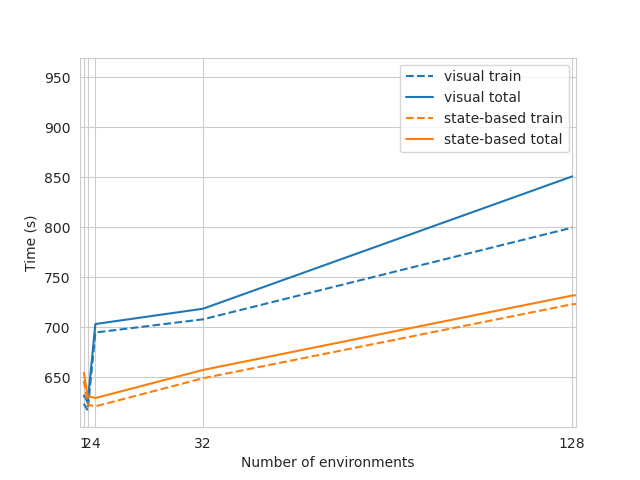
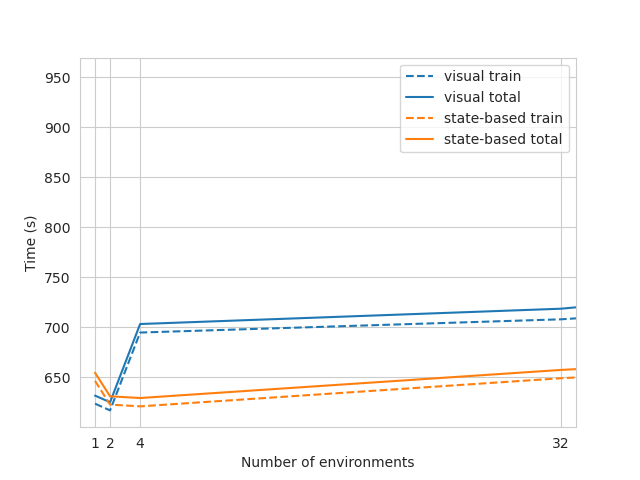
state_vs_visual scripts

diff --git a/scripts/state_vs_visual_sim.py b/scripts/state_vs_visual_sim.py
@@ -1,0 +1,34 @@
+import subprocess as sp
+import time
+
+# num_envs_lst = [400, 500, 600, 700, 800, 900, 1000, 1200, 1400, 1600, 1800, 2000, 3000, 4000, 5000]
+# num_envs_lst = [1,2,4,8, 16, 32, 64, 128, 256, 512, 1024, 2048, 4096, 8192, 16384, 32768, 65536, 131072, 262144, 524288, 1048576]
+num_envs_lst = [1,2,4,8, 16, 32, 64, 128, 256, 512]
+seeds = [0, 1, 2, 3, 4]
+
+for num_envs in num_envs_lst:
+    for camera in ["state", "visual"]:
+        for seed in seeds:
+
+            if camera == "state":
+                task = 'Isaac-Lift-Cube-Franka-v0'
+            else:
+                task = 'Isaac-Lift-Cube-Camera-Franka-v0'
+
+            # ./orbit.sh -p source/standalone/workflows/skrl/train.py --task Isaac-Lift-Cube-Franka-v0 --headless --num_envs 2 --seed 0
+            command = f"./orbit.sh -p source/standalone/workflows/skrl/train.py --task {task} --headless --num_envs {num_envs} --seed {seed}"
+
+            start = time.time()
+            result = sp.run(
+                command.split(),
+                stderr=sp.PIPE,
+            )
+
+            if result.returncode:
+                print(f"Failed on {num_envs} envs")
+                break
+
+            # Save the time taken
+            with open("time_state_vs_visual_sim.txt", "a") as f:
+                # num_envs, seed, camera, time, full command
+                f.writelines([f"{num_envs}, {seed}, {camera}, {time.time() - start}, {command}\n"])

diff --git a/plotting/state_vs_visual_sim/state_vs_visual_sim.py b/plotting/state_vs_visual_sim/state_vs_visual_sim.py
@@ -82,7 +82,8 @@ plt.plot(x, y_train, label="state-based train", linestyle="--", color=colors[1])
 plt.plot(x, y_total, label="state-based total", linestyle="-", color=colors[1])
 
 plt.xticks(x)
-plt.xlim(left=0, right=129)
+plt.xlim(left=0, right=33)
+plt.ylim(bottom=0)
 
 # plt.yscale("log")
 # plt.xscale("log")

diff --git a/README.md b/README.md
@@ -1,74 +1,26 @@
-![Example Tasks created with ORBIT](docs/source/_static/tasks.jpg)
 
----
 
 # Orbit
 
-[![IsaacSim](https://img.shields.io/badge/IsaacSim-2023.1.1-silver.svg)](https://docs.omniverse.nvidia.com/isaacsim/latest/overview.html)
-[![Python](https://img.shields.io/badge/python-3.10-blue.svg)](https://docs.python.org/3/whatsnew/3.10.html)
-[![Linux platform](https://img.shields.io/badge/platform-linux--64-orange.svg)](https://releases.ubuntu.com/20.04/)
-[![pre-commit](https://img.shields.io/badge/pre--commit-enabled-brightgreen?logo=pre-commit&logoColor=white)](https://pre-commit.com/)
-[![Docs status](https://img.shields.io/badge/docs-passing-brightgreen.svg)](https://isaac-orbit.github.io/orbit)
-[![License](https://img.shields.io/badge/license-BSD--3-yellow.svg)](https://opensource.org/licenses/BSD-3-Clause)
+## Installation
 
-<!-- TODO: Replace docs status with workflow badge? Link: https://github.com/isaac-orbit/orbit/actions/workflows/docs.yaml/badge.svg -->
+Follow:
+https://isaac-orbit.github.io/orbit/source/setup/installation.html
 
-**Orbit** is a unified and modular framework for robot learning that aims to simplify common workflows
-in robotics research (such as RL, learning from demonstrations, and motion planning). It is built upon
-[NVIDIA Isaac Sim](https://docs.omniverse.nvidia.com/isaacsim/latest/overview.html) to leverage the latest
-simulation capabilities for photo-realistic scenes and fast and accurate simulation.
-
-Please refer to our [documentation page](https://isaac-orbit.github.io/orbit) to learn more about the
-installation steps, features, tutorials, and how to setup your own project with Orbit.
-
-## 🎉 Announcement (22.12.2023)
-
-We're excited to announce merging of our latest development branch into the main branch! This update introduces
-several improvements and fixes to enhance the modularity and user-friendliness of the framework. We have added
-several new environments, especially for legged locomotion, and are in the process of adding new environments.
-
-Feel free to explore the latest changes and updates. We appreciate your ongoing support and contributions!
-
-For more details, please check the post here: [#106](https://github.com/NVIDIA-Omniverse/Orbit/discussions/106)
-
-## Contributing to Orbit
-
-We wholeheartedly welcome contributions from the community to make this framework mature and useful for everyone.
-These may happen as bug reports, feature requests, or code contributions. For details, please check our
-[contribution guidelines](https://isaac-orbit.github.io/orbit/source/refs/contributing.html).
-
-## Troubleshooting
-
-Please see the [troubleshooting](https://isaac-orbit.github.io/orbit/source/refs/troubleshooting.html) section for
-common fixes or [submit an issue](https://github.com/NVIDIA-Omniverse/orbit/issues).
-
-For issues related to Isaac Sim, we recommend checking its [documentation](https://docs.omniverse.nvidia.com/app_isaacsim/app_isaacsim/overview.html)
-or opening a question on its [forums](https://forums.developer.nvidia.com/c/agx-autonomous-machines/isaac/67).
-
-## Support
-
-* Please use GitHub [Discussions](https://github.com/NVIDIA-Omniverse/Orbit/discussions) for discussing ideas, asking questions, and requests for new features.
-* Github [Issues](https://github.com/NVIDIA-Omniverse/orbit/issues) should only be used to track executable pieces of work with a definite scope and a clear deliverable. These can be fixing bugs, documentation issues, new features, or general updates.
-
-## Acknowledgement
-
-NVIDIA Isaac Sim is available freely under [individual license](https://www.nvidia.com/en-us/omniverse/download/). For more information about its license terms, please check [here](https://docs.omniverse.nvidia.com/app_isaacsim/common/NVIDIA_Omniverse_License_Agreement.html#software-support-supplement).
-
-Orbit framework is released under [BSD-3 License](LICENSE). The license files of its dependencies and assets are present in the [`docs/licenses`](docs/licenses) directory.
-
-## Citing
-
-If you use this framework in your work, please cite [this paper](https://arxiv.org/abs/2301.04195):
-
-```text
-@article{mittal2023orbit,
-   author={Mittal, Mayank and Yu, Calvin and Yu, Qinxi and Liu, Jingzhou and Rudin, Nikita and Hoeller, David and Yuan, Jia Lin and Singh, Ritvik and Guo, Yunrong and Mazhar, Hammad and Mandlekar, Ajay and Babich, Buck and State, Gavriel and Hutter, Marco and Garg, Animesh},
-   journal={IEEE Robotics and Automation Letters},
-   title={Orbit: A Unified Simulation Framework for Interactive Robot Learning Environments},
-   year={2023},
-   volume={8},
-   number={6},
-   pages={3740-3747},
-   doi={10.1109/LRA.2023.3270034}
-}
+```bash
+./orbit.sh --extra skrl
 ```
+
+### Test Orbit is working
+```bash
+# Option 1: Using the orbit.sh executable
+./orbit.sh -p source/standalone/tutorials/00_sim/create_empty.py
+# Option 2: Using python in your virtual environment
+python source/standalone/tutorials/00_sim/create_empty.py
+```
+
+### Run a standard task
+```bash
+./orbit.sh -p source/standalone/workflows/skrl/train.py --task Isaac-Lift-Cube-Franka-v0 --headless --num_envs 2 --seed 0
+```
+
